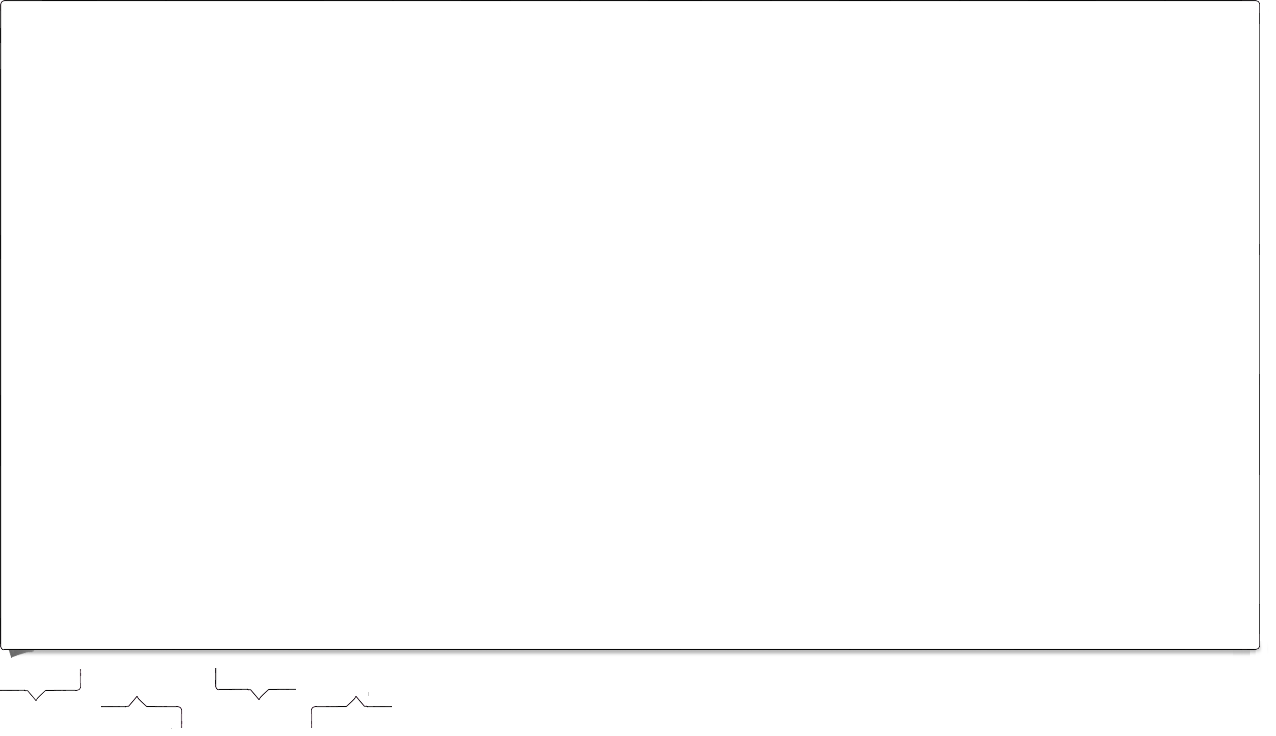
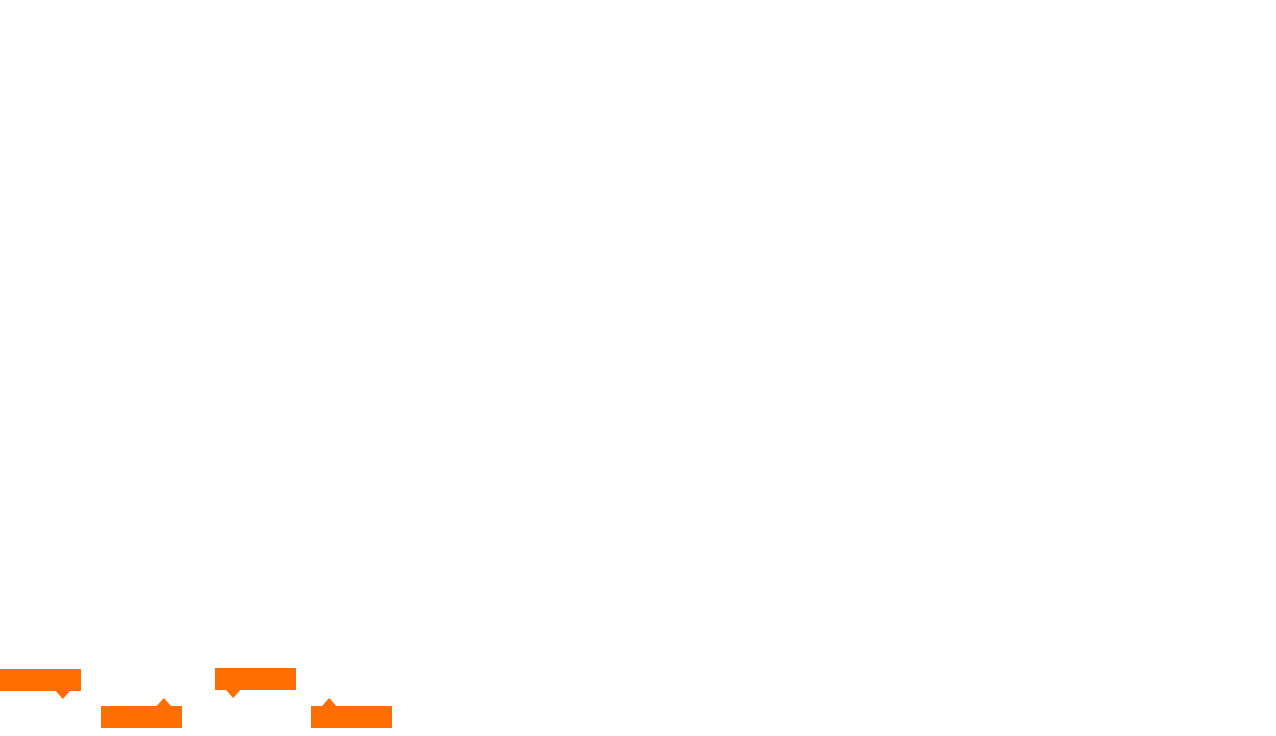
restyle pop-ups

Changed region(s): [[0.0, 0.875, 0.9781, 1.0], [0.2445, 0.9375, 0.3056, 1.0]]

diff --git a/apps/mapa/static/css/zelenamapa.css b/apps/mapa/static/css/zelenamapa.css
@@ -163,13 +163,13 @@ img.sr_img {  width:17px; height:18px; position:relative; top: 3px; margin-right
 
 /* Popup */
 .lc { float:left; bottom:0px;  width: 22px;  }
-.trc { margin-left: 24px; padding-right:20px; width:160px;}
+.trc { position:relative; left: -8px; padding: 12px 1000px 12px 12px; top: -8px; width:100%; background: #ff6e00; }
 .trc h4{ margin-bottom: 0;}
 /* .rc { margin-left: 24px; padding-right:2px; overflow-y: scroll; max-height:240px; } */
-.rc { margin-left: 24px; padding-right:2px; max-height:240px; overflow-y: auto; }
-.rc_noscroll { margin-left: 24px; padding-right:2px;  }
+.rc { margin-left: 5px; padding-right:2px; max-height:240px; overflow-y: auto; }
+.rc_noscroll { margin-left: 5px; padding-right:2px;  }
 .addinfo { text-align:right; margin-right:5px;}
-.olPopupCloseBox { float:right !important; right:17px  !important;}
+.olPopupCloseBox { float:right !important; width: 26px !important; height: 24px !important; top: 34px !important; right: 2px !important;}
 .foto_thumb { border:none; max-width:230px; max-height:230px; margin-top:4px; }
 .foto_segment { border:none; width:50%; margin-bottom: 14px; float:left; margin-right:10px; }
 		 
